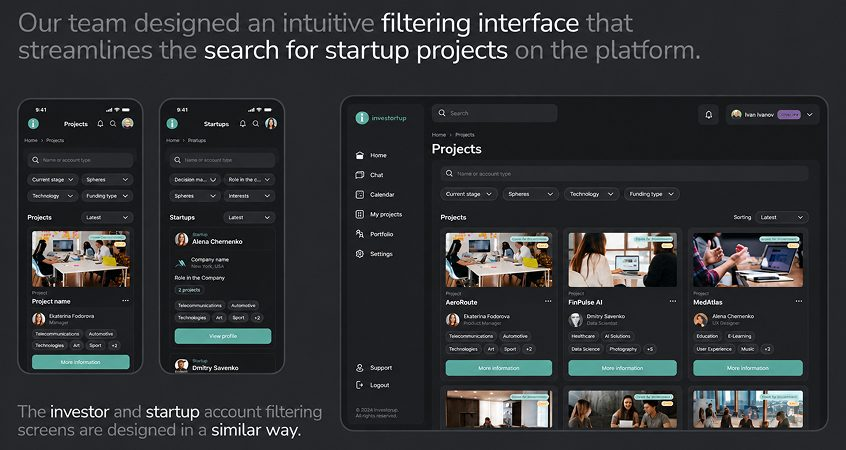
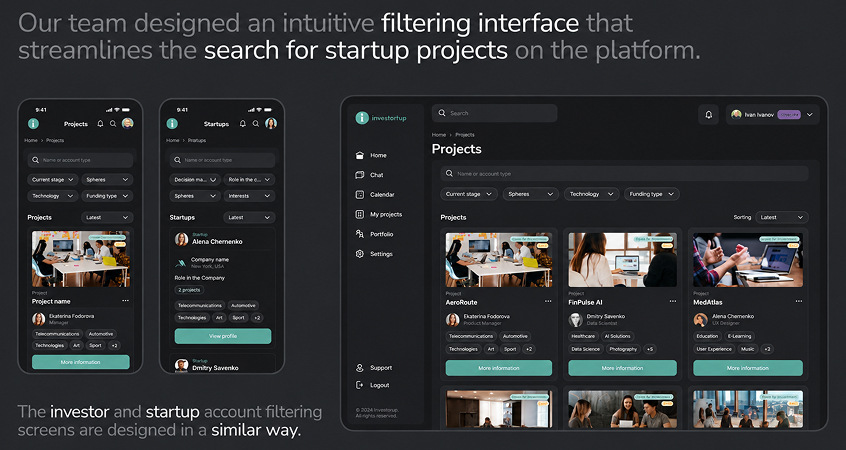
Restore image quality: re-encode from first-upload originals at q93, hero.webp q94
Photos were re-compressed to ~q75 on 10 Oct. Restored from the original uploads
(commit 684245b), re-encoded as progressive 4:4:4 JPEG q93 (~1.5 MB total instead of 4 MB).
README: @2x export sizes needed for retina sharpness.

Claude-Session: https://claude.ai/code/session_016mbQdegGQk4836ehLAt8v1

diff --git a/README.md b/README.md
@@ -64,3 +64,21 @@ t1–t3 логотипы PNG прозрачный фон 430×130 · stats-hover
 2. **Метрика / GA:** в `js/main.js` впишите ID в `ANALYTICS={ym:'',ga:''}`. Счётчики загрузятся только после «Принять». Затем обновите раздел 6 политики (перечень сервисов, сроки) и раздел 5 (трансграничная передача).
 3. **Не добавляйте** счётчики прямым `<script>` в HTML — они сработают до согласия.
 4. Форма отправляет данные в Formspree (США) — это отражено в политике и в согласии в форме. Смените сервис — обновите раздел 5.
+
+# Качество картинок (важно)
+1. Сжатие: не пересжимайте JPEG при загрузке. Сохраняйте из Figma в JPEG с качеством 90–95 (или PNG/WebP lossless), без «оптимизаторов» вроде TinyPNG/Squoosh с низким качеством.
+2. Размер в пикселях: на экранах Retina (iPhone, MacBook, большинство Android) картинке нужно в 2 раза больше пикселей, чем ширина блока на сайте. Экспортируйте в **@2x**:
+
+| Файл | Сейчас, px | Нужно для чёткости (@2x), px |
+|---|---|---|
+| p1–p6 (портфолио) | 560×800 | 960×1370 |
+| web-1 | 564×950 | 1050×1770 |
+| web-2 | 348×618 | 660×1170 |
+| mobile | 560×608 | 1050×1140 |
+| support | 560×373 | 1050×700 |
+| crm-1 / crm-2 | 846×450 / 832×450 | 1590×850 |
+| hero (png и webp) | 1016×938 | 1560×1440 |
+| ig/og1–og3 | ≈476×592 | 840×1050 |
+| t1–t3 (логотипы клиентов) | 214×63 и меньше | высота ≥ 112 px, лучше SVG |
+
+Файл с тем же именем и пропорциями можно просто заменить, вёрстку менять не нужно. WebP для hero: `python3 -c "from PIL import Image; Image.open('img/hero.png').save('img/hero.webp','WEBP',quality=94,method=6,exact=True)"`.
